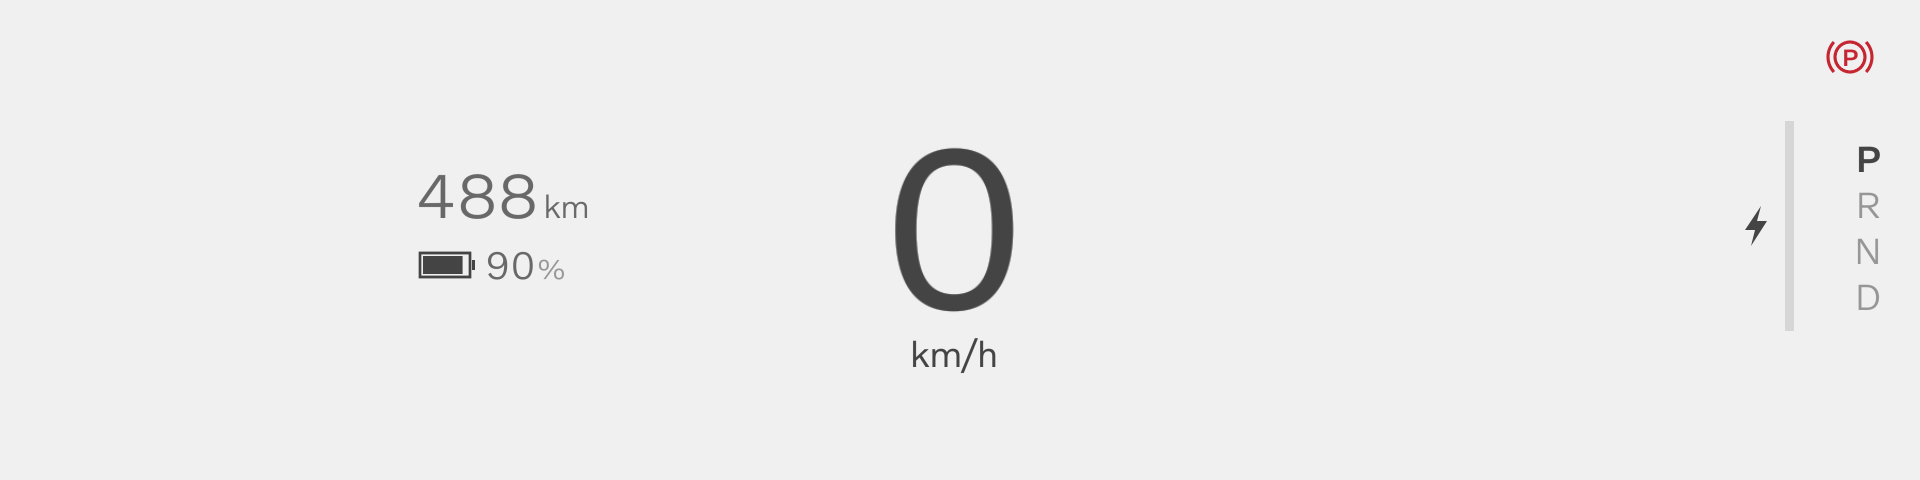
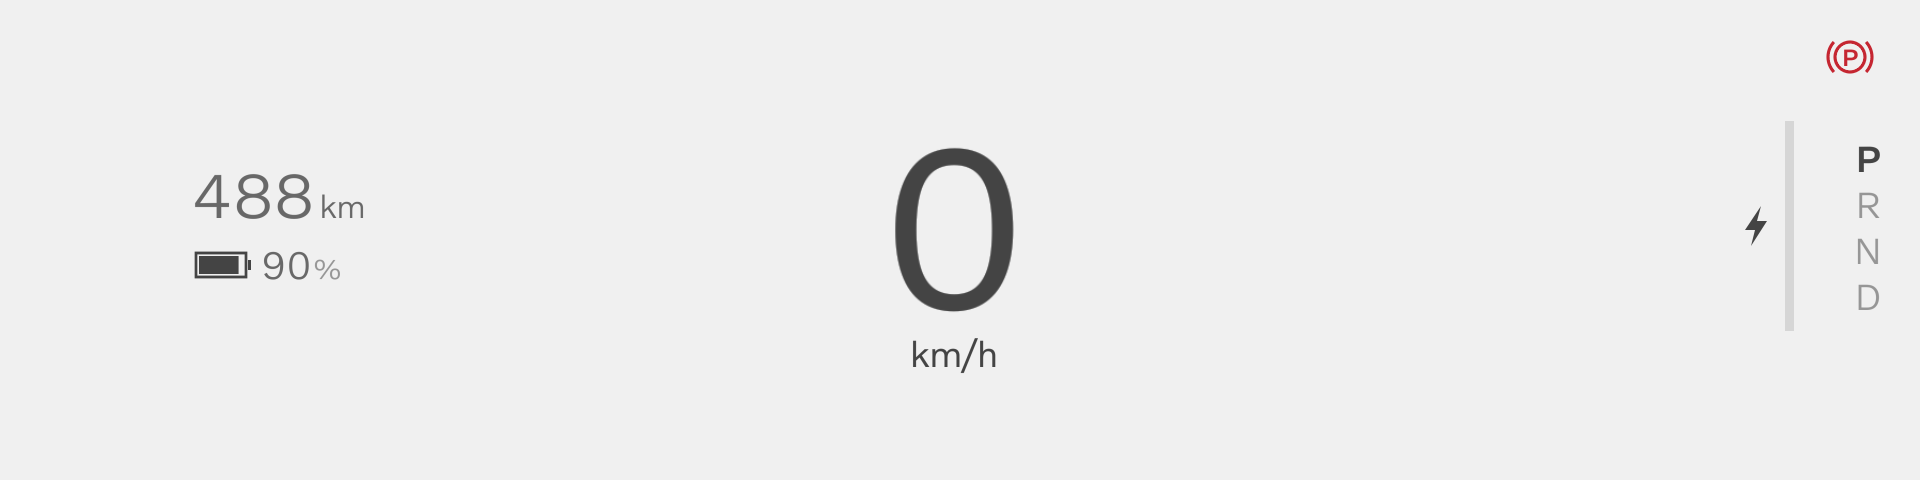
Move the range and charge closer to the left edge

diff --git a/display/tests/test_display.py b/display/tests/test_display.py
@@ -84,9 +84,9 @@ class InstrumentTests(unittest.TestCase):
                         return [y for y in range(top, bottom) if any(
                             abs((pixels[y * 1920 + x] & 255) - bg) > 30 for x in range(left, right))]
 
-                    self.assertAlmostEqual(len(ink_rows(416, 450, 145, 215)), 45, delta=1)
-                    digit = ink_rows(485, 509)
-                    sign = ink_rows(510, 550)
+                    self.assertAlmostEqual(len(ink_rows(192, 226, 145, 215)), 45, delta=1)
+                    digit = ink_rows(261, 285)
+                    sign = ink_rows(286, 326)
                     self.assertAlmostEqual(len(digit), 28, delta=1)
                     self.assertAlmostEqual(len(sign) / len(digit), 0.72, delta=0.06)
                     self.assertAlmostEqual(digit[-1], sign[-1], delta=1)

diff --git a/display/cluster.py b/display/cluster.py
@@ -210,7 +210,7 @@ def draw(ctx, width, height, fields, lettering=None, *, dark=False, message=""):
     else:
         paint_text(ctx, "–", 954, 291, 210, ink, lettering, align=0.5)
 
-    reading_x = 416
+    reading_x = 192
     reading_ink = ink if dark else "#686868"
     distance = number(fields, "range_m_aaos")
     unit = fields.get("distance_unit", "km")
